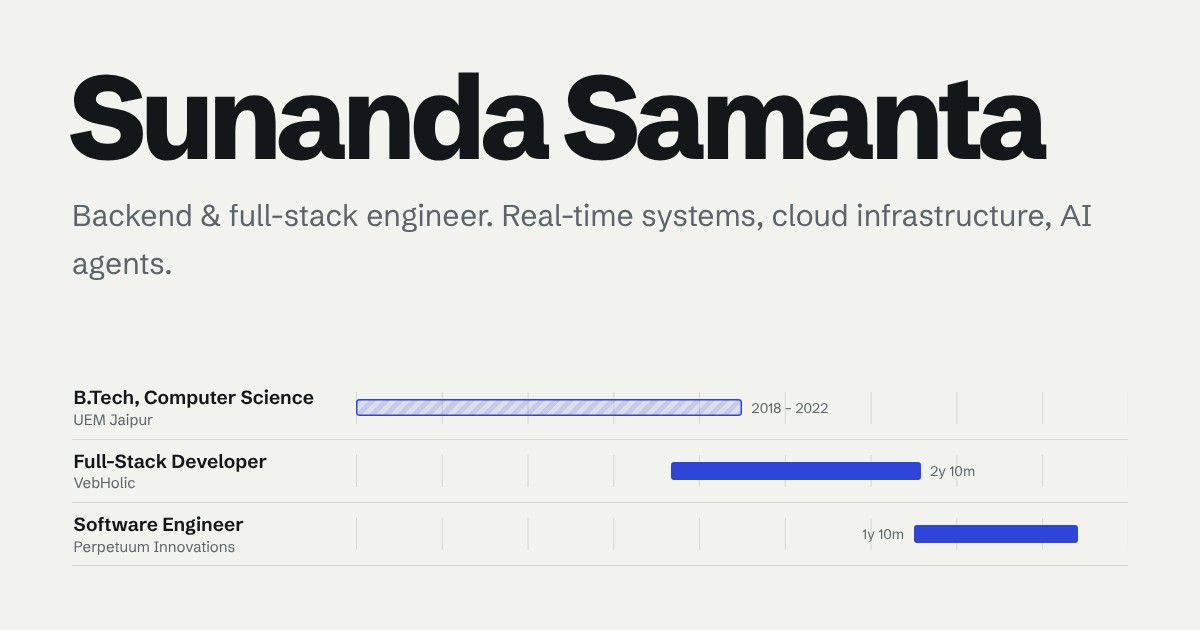
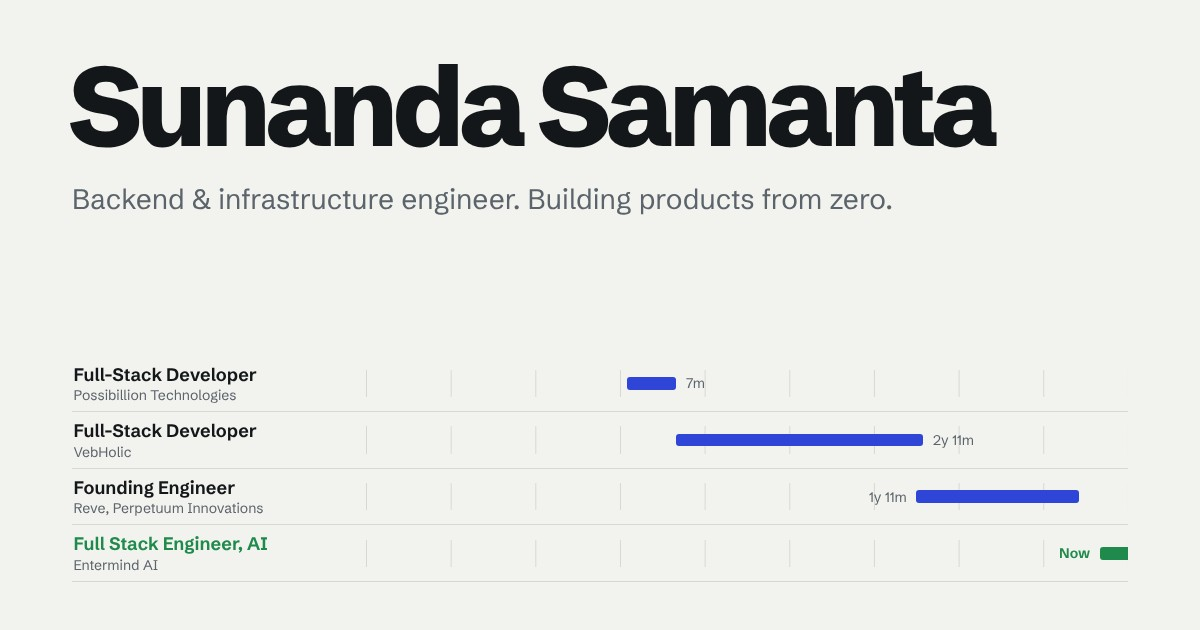
Update portfolio content from LinkedIn profile
- Add Entermind AI (current role) and Possibillion Technologies (2021)
- Reve: founding engineer, microservices, Cloud Run migration, analytics pipeline
- Sub-50ms figure correctly attributed to load testing
- VebHolic: 800+ enterprises, RAG at ~95% response accuracy
- Location Bengaluru; add AWS Certified Solutions Architect - Associate
- Replace job-seeking framing with current-role status
- Regenerate Open Graph image

diff --git a/index.html b/index.html
@@ -4,9 +4,9 @@
 <head>
     <meta charset="UTF-8">
     <meta name="viewport" content="width=device-width, initial-scale=1.0">
-    <title>Sunanda Samanta, Backend &amp; Full-Stack Engineer</title>
+    <title>Sunanda Samanta, Backend &amp; Infrastructure Engineer</title>
     <meta name="description"
-        content="Sunanda Samanta is a backend and full-stack engineer with four years of production experience: real-time messaging at sub-50ms, Kubernetes infrastructure, production AI agents, and DevUtils (5,000+ monthly users).">
+        content="Sunanda Samanta is a backend and infrastructure engineer who builds products from zero: founding engineer at Reve, now building enterprise AI at Entermind AI, and creator of DevUtils (5,000+ monthly users). AWS Certified Solutions Architect.">
     <meta name="author" content="Sunanda Samanta">
     <meta name="robots" content="index, follow">
     <meta name="color-scheme" content="light dark">
@@ -20,21 +20,21 @@
     <!-- Open Graph -->
     <meta property="og:type" content="website">
     <meta property="og:url" content="https://sunanda35.github.io/">
-    <meta property="og:title" content="Sunanda Samanta, Backend & Full-Stack Engineer">
+    <meta property="og:title" content="Sunanda Samanta, Backend & Infrastructure Engineer">
     <meta property="og:description"
-        content="Four years building production systems end-to-end: real-time messaging, Kubernetes infrastructure, AI agents, and DevUtils (5,000+ monthly users).">
+        content="Backend and infrastructure engineer building products from zero. Founding engineer at Reve, now at Entermind AI. Creator of DevUtils (5,000+ monthly users).">
     <meta property="og:image" content="https://sunanda35.github.io/assets/images/og-image.jpg">
     <meta property="og:image:type" content="image/jpeg">
     <meta property="og:image:width" content="1200">
     <meta property="og:image:height" content="630">
-    <meta property="og:image:alt" content="Sunanda Samanta, Backend and Full-Stack Engineer. Career shown as a trace timeline.">
+    <meta property="og:image:alt" content="Sunanda Samanta, Backend and Infrastructure Engineer. Career shown as a trace timeline.">
     <meta property="og:site_name" content="Sunanda Samanta">
     <meta property="og:locale" content="en_US">
 
     <meta name="twitter:card" content="summary_large_image">
-    <meta name="twitter:title" content="Sunanda Samanta, Backend & Full-Stack Engineer">
+    <meta name="twitter:title" content="Sunanda Samanta, Backend & Infrastructure Engineer">
     <meta name="twitter:description"
-        content="Four years building production systems end-to-end. Creator of DevUtils (5,000+ monthly users).">
+        content="Backend and infrastructure engineer building products from zero. Creator of DevUtils (5,000+ monthly users).">
     <meta name="twitter:image" content="https://sunanda35.github.io/assets/images/og-image.jpg">
     <meta name="twitter:creator" content="@0xSunanda">
 
@@ -49,12 +49,14 @@
       "@context": "https://schema.org",
       "@type": "Person",
       "name": "Sunanda Samanta",
-      "jobTitle": "Software Engineer",
+      "jobTitle": "Full Stack Engineer, AI Solutions",
+      "worksFor": { "@type": "Organization", "name": "Entermind AI" },
       "url": "https://sunanda35.github.io/",
       "email": "mailto:sunandasamanta38@gmail.com",
-      "address": { "@type": "PostalAddress", "addressLocality": "Gurugram", "addressCountry": "India" },
+      "address": { "@type": "PostalAddress", "addressLocality": "Bengaluru", "addressCountry": "India" },
       "alumniOf": "University of Engineering & Management, Jaipur",
-      "knowsAbout": ["Backend engineering", "Node.js", "TypeScript", "Go", "Kubernetes", "Real-time systems", "RAG", "AI agents"],
+      "hasCredential": { "@type": "EducationalOccupationalCredential", "name": "AWS Certified Solutions Architect – Associate" },
+      "knowsAbout": ["Backend engineering", "Distributed systems", "Cloud infrastructure", "AWS", "GCP", "Node.js", "TypeScript", "Go", "Real-time systems", "RAG", "Developer tools"],
       "sameAs": ["https://github.com/sunanda35", "https://www.linkedin.com/in/sunanda35/", "https://x.com/0xSunanda"]
     }
     </script>
@@ -87,18 +89,18 @@
 
             <div class="hero-grid">
                 <p class="lead">
-                    Backend and full-stack engineer. For four years I've built the systems products run on:
-                    real-time messaging, cloud infrastructure, and AI agents, owned from the first commit
-                    through production and on-call.
+                    Backend and infrastructure engineer who builds products from zero. Most of my career has
+                    been inside early-stage startups: as founding engineer at Reve I took the backend from an
+                    empty repo to production. Now I build AI solutions for enterprises.
                 </p>
                 <div class="hero-side">
-                    <p class="status"><span class="pulse" aria-hidden="true"></span>Open to backend, full-stack and AI
-                        engineering roles</p>
-                    <p class="where">Gurugram, India. Remote or relocation.</p>
+                    <p class="status"><span class="pulse" aria-hidden="true"></span>Full Stack Engineer, AI Solutions
+                        at Entermind AI</p>
+                    <p class="where">Bengaluru, India. AWS Certified Solutions Architect.</p>
                     <div class="cta">
                         <a class="btn primary" href="mailto:sunandasamanta38@gmail.com">Email me</a>
-                        <a class="btn track-outbound" href="/assets/sunanda-resume.pdf" target="_blank"
-                            rel="noopener">View résumé</a>
+                        <a class="btn track-outbound" href="https://www.linkedin.com/in/sunanda35/" target="_blank"
+                            rel="noopener">LinkedIn</a>
                     </div>
                 </div>
             </div>
@@ -107,7 +109,7 @@
             <figure class="trace" aria-labelledby="trace-cap">
                 <figcaption id="trace-cap" class="trace-head">
                     <span class="trace-title">Career, as a trace</span>
-                    <span class="trace-meta"><span class="tnum">4</span> spans, <span class="tnum">2018</span> to today</span>
+                    <span class="trace-meta"><span class="tnum">5</span> spans, <span class="tnum">2018</span> to today</span>
                 </figcaption>
 
                 <div class="axis" aria-hidden="true">
@@ -122,26 +124,32 @@
                 <ul class="spans">
                     <li class="span school" style="--s:0;--e:54;--i:0">
                         <a href="#education" class="span-row">
-                            <span class="span-name"><b>B.Tech, Computer Science</b><small>UEM Jaipur, CGPA 8.9</small></span>
+                            <span class="span-name"><b>B.Tech, Computer Science</b><small>UEM Jaipur</small></span>
                             <span class="track"><span class="bar"></span><span class="dur tnum">2018 – 2022</span></span>
                         </a>
                     </li>
-                    <li class="span" style="--s:44;--e:79;--i:1">
+                    <li class="span" style="--s:37;--e:44;--i:1">
+                        <a href="#possibillion" class="span-row">
+                            <span class="span-name"><b>Full-Stack Developer</b><small>Possibillion Technologies</small></span>
+                            <span class="track"><span class="bar"></span><span class="dur tnum">7m</span></span>
+                        </a>
+                    </li>
+                    <li class="span" style="--s:44;--e:79;--i:2">
                         <a href="#vebholic" class="span-row">
-                            <span class="span-name"><b>Full-Stack Developer</b><small>VebHolic, remote</small></span>
-                            <span class="track"><span class="bar"></span><span class="dur tnum">2y 10m</span></span>
+                            <span class="span-name"><b>Full-Stack Developer</b><small>VebHolic</small></span>
+                            <span class="track"><span class="bar"></span><span class="dur tnum">2y 11m</span></span>
                         </a>
                     </li>
-                    <li class="span lab-left" style="--s:78;--e:101;--i:2">
-                        <a href="#perpetuum" class="span-row">
-                            <span class="span-name"><b>Software Engineer</b><small>Perpetuum Innovations</small></span>
-                            <span class="track"><span class="bar"></span><span class="dur tnum">1y 10m</span></span>
+                    <li class="span lab-left" style="--s:78;--e:101;--i:3">
+                        <a href="#reve" class="span-row">
+                            <span class="span-name"><b>Founding Engineer</b><small>Reve, Perpetuum Innovations</small></span>
+                            <span class="track"><span class="bar"></span><span class="dur tnum">1y 11m</span></span>
                         </a>
                     </li>
-                    <li class="span next" style="--s:102;--e:108;--i:3">
-                        <a href="#contact" class="span-row">
-                            <span class="span-name"><b>Next role</b><small>Open now</small></span>
-                            <span class="track"><span class="bar"></span><span class="dur">Let's talk</span></span>
+                    <li class="span now" style="--s:104;--e:108;--i:4">
+                        <a href="#entermind" class="span-row">
+                            <span class="span-name"><b>Full Stack Engineer, AI</b><small>Entermind AI</small></span>
+                            <span class="track"><span class="bar"></span><span class="dur">Now</span></span>
                         </a>
                     </li>
                 </ul>
@@ -152,28 +160,41 @@
         <section class="block shell" id="work" aria-labelledby="work-h">
             <h2 id="work-h" class="block-h">Experience</h2>
 
-            <article class="role" id="perpetuum">
+            <article class="role" id="entermind">
+                <div class="role-meta">
+                    <p class="tnum">Sep 2026 – now</p>
+                    <p>Current role</p>
+                </div>
+                <div class="role-body">
+                    <h3>Full Stack Engineer, AI Solutions <span>Entermind AI</span></h3>
+                    <p class="role-lead">Building AI-driven solutions for enterprises.</p>
+                </div>
+            </article>
+
+            <article class="role" id="reve">
                 <div class="role-meta">
                     <p class="tnum">Jul 2024 – May 2026</p>
                     <p>Gurugram</p>
                 </div>
                 <div class="role-body">
-                    <h3>Software Engineer <span>Perpetuum Innovations</span></h3>
+                    <h3>Founding Engineer <span>Reve, by Perpetuum Innovations</span></h3>
                     <p class="role-lead">
-                        Built the backend platform from an empty repository, made the early architecture calls,
-                        and owned it end-to-end: the cross-platform apps shipped on it, and I ran it in production.
+                        Joined as founding engineer and took the backend from an empty repo to production. Owned the
+                        microservices architecture and the tech-stack decisions the cross-platform mobile apps
+                        shipped on, along with the infrastructure underneath.
                     </p>
                     <ul class="wins">
-                        <li><strong class="tnum">Sub-50ms</strong> real-time messaging on Pub/Sub, holding 1,000+
-                            concurrent sessions in production.</li>
+                        <li><strong class="tnum">Sub-50ms</strong> real-time messaging on Pub/Sub with a serverless
+                            backend, sustaining 1,000+ concurrent sessions in load testing.</li>
                         <li><strong class="tnum">~40% faster</strong> average API response time after redesigning
-                            schemas and indexes and reworking the slowest queries.</li>
-                        <li>Ran services on Kubernetes with Helm and Terraform, containerised with Docker, with
-                            releases automated through GitHub Actions.</li>
-                        <li>Built async and data-sync pipelines with retries, failure handling and replay, plus the
-                            monitoring and alerting that made production visible.</li>
+                            database schemas and rewriting the slowest queries.</li>
+                        <li>Built a real-time analytics pipeline with monitoring, for usage insights and early
+                            regression detection.</li>
+                        <li>Built automated background-processing pipelines for async workloads, improving
+                            reliability and cutting manual ops.</li>
+                        <li>Migrated background workers from VM-based deployment to Cloud Run serverless jobs.</li>
                     </ul>
-                    <p class="used">TypeScript, Node.js, Pub/Sub, Kubernetes, Helm, Terraform, Docker, GitHub Actions, GCP</p>
+                    <p class="used">TypeScript, Node.js, microservices, Pub/Sub, Cloud Run, GCP, Docker, Terraform, GitHub Actions</p>
                 </div>
             </article>
 
@@ -185,19 +206,28 @@
                 <div class="role-body">
                     <h3>Full-Stack Developer <span>VebHolic</span></h3>
                     <p class="role-lead">
-                        Shipped features end-to-end for a SaaS product with around 10,000 users: React front ends,
-                        Express and Node.js APIs, authentication, integrations and monitoring.
+                        Shipped full-stack features for a SaaS platform serving 800+ enterprises, improving system
+                        performance and reliability.
                     </p>
                     <ul class="wins">
-                        <li><strong class="tnum">~60% fewer</strong> routine manual lookups after shipping a
-                            production AI agent: an LLM with retrieval over vector search, on a self-deployed Llama
-                            model, that let users query internal data in plain language.</li>
-                        <li><strong class="tnum">~25% faster</strong> page loads through caching and a move to a
-                            micro-frontend architecture.</li>
-                        <li>Wrote Python and Node.js for production APIs and data integration, and reworked batch
-                            and background processing for heavier workloads.</li>
+                        <li><strong class="tnum">~95% accuracy</strong> from an LLM-powered RAG pipeline with
+                            vector retrieval, letting users query internal data in plain language.</li>
+                        <li><strong class="tnum">~25% faster</strong> page loads, alongside reworked batch and
+                            background data processing built for heavier workloads.</li>
                     </ul>
-                    <p class="used">React, Node.js, Express, MongoDB, PostgreSQL, Python, Llama, vector search</p>
+                    <p class="used">React, Node.js, Express, MongoDB, PostgreSQL, Python, LLMs, vector search</p>
+                </div>
+            </article>
+
+            <article class="role" id="possibillion">
+                <div class="role-meta">
+                    <p class="tnum">Feb 2021 – Aug 2021</p>
+                    <p>Hyderabad</p>
+                </div>
+                <div class="role-body">
+                    <h3>Full-Stack Developer <span>Possibillion Technologies</span></h3>
+                    <p class="role-lead">First engineering role: built and shipped features across the front end,
+                        REST APIs and the data layer.</p>
                 </div>
             </article>
         </section>
@@ -211,16 +241,16 @@
                     <h3><a href="https://devutils.lol/" target="_blank" rel="noopener" class="track-outbound">DevUtils</a></h3>
                     <p class="feature-sub">Privacy-first developer tools. Built and grown solo.</p>
                     <p>
-                        Developer tools that process multi-gigabyte files entirely in the browser. Service Worker
-                        chunking and streaming do the heavy lifting, and there is no backend at all, so nothing you
-                        load ever leaves your machine.
+                        A collection of developer tools used by 5,000+ people every month. Some of them process
+                        multi-gigabyte files entirely inside the browser, using Service Worker chunking and
+                        streaming, so nothing is ever uploaded to a server.
                     </p>
                     <a class="link track-outbound" href="https://devutils.lol/" target="_blank" rel="noopener">Open devutils.lol</a>
                 </div>
                 <dl class="feature-facts">
                     <div><dt>Monthly users</dt><dd class="tnum">5,000+</dd></div>
                     <div><dt>Files handled</dt><dd>Multi-GB</dd></div>
-                    <div><dt>Backend servers</dt><dd class="tnum">0</dd></div>
+                    <div><dt>Uploads to a server</dt><dd class="tnum">0</dd></div>
                 </dl>
             </article>
 
@@ -250,20 +280,21 @@
         <section class="block shell" id="skills" aria-labelledby="skills-h">
             <h2 id="skills-h" class="block-h">Skills</h2>
             <dl class="skills">
+                <div><dt>Certified</dt><dd class="strong">AWS Certified Solutions Architect – Associate</dd></div>
                 <div><dt>Languages</dt><dd>TypeScript, JavaScript, Go, Python, Rust, SQL</dd></div>
                 <div><dt>Backend</dt><dd>Node.js, Express, REST, WebSockets, microservices, serverless, Kafka, Pub/Sub, Redis</dd></div>
+                <div><dt>Cloud</dt><dd>AWS (Lambda, IAM), GCP (Cloud Run, Pub/Sub), Docker, Kubernetes, Helm, Terraform, GitHub Actions, cloud security</dd></div>
                 <div><dt>Data</dt><dd>PostgreSQL, MongoDB, Redis, Firestore, ArangoDB; schema design, indexing, query tuning</dd></div>
-                <div><dt>Infrastructure</dt><dd>AWS, GCP, Docker, Kubernetes, Helm, Terraform, GitHub Actions</dd></div>
-                <div><dt>AI</dt><dd>Production agents, LLM integration, RAG and vector retrieval, self-hosted model deployment</dd></div>
+                <div><dt>AI</dt><dd>LLM integration, RAG and vector retrieval, AI workflow automation</dd></div>
                 <div><dt>Frontend</dt><dd>React, Next.js, Tailwind, Angular, Flutter</dd></div>
-                <div><dt>Testing</dt><dd>Jest, Playwright</dd></div>
             </dl>
         </section>
 
         <!-- ============ CONTACT ============ -->
         <section class="contact shell" id="contact" aria-labelledby="contact-h">
-            <h2 id="contact-h" class="contact-h">Hiring for a backend or<br class="hide-sm"> platform engineer?</h2>
-            <p class="contact-sub">Email is the fastest way to reach me. Based in Gurugram, open to remote and relocation.</p>
+            <h2 id="contact-h" class="contact-h">Building something<br class="hide-sm"> from zero?</h2>
+            <p class="contact-sub">I like talking about backend systems, infrastructure, AI products and early-stage
+                engineering. Email is the fastest way to reach me.</p>
             <div class="mailrow">
                 <a class="mail" href="mailto:sunandasamanta38@gmail.com">sunandasamanta38@gmail.com</a>
                 <button class="copy" type="button" data-copy="sunandasamanta38@gmail.com">Copy email</button>
@@ -280,7 +311,7 @@
     </main>
 
     <footer class="shell foot">
-        <span>© 2026 Sunanda Samanta</span>
+        <span>© 2026 Sunanda Samanta, Bengaluru</span>
         <span>Hand-written HTML and CSS. No framework, no trackers.</span>
     </footer>
 

diff --git a/css/modern.css b/css/modern.css
@@ -268,18 +268,17 @@ header.site.scrolled { border-bottom-color: var(--rule); }
     background: repeating-linear-gradient(-45deg, var(--span-soft) 0 5px, transparent 5px 10px), var(--span-soft);
     box-shadow: inset 0 0 0 1.5px var(--span);
 }
-/* the open-ended "next role" span */
-.span.next .bar {
-    background: transparent;
-    box-shadow: inset 0 0 0 1.5px var(--live);
-    background-image: linear-gradient(90deg, color-mix(in srgb, var(--live) 30%, transparent), transparent);
+/* the current role: live, open-ended */
+.span.now .bar {
+    background: var(--live);
     border-radius: 3px 0 0 3px;
+    background-image: linear-gradient(90deg, var(--live) 55%, color-mix(in srgb, var(--live) 25%, transparent));
 }
-.span.next .dur {
+.span.now .dur {
     left: auto; right: calc(100% - var(--s) / 108 * 100% + 0.6rem);
-    color: var(--live); font-weight: 600;
+    color: var(--live); font-weight: 650;
 }
-.span.next b { color: var(--live); }
+.span.now b { color: var(--live); }
 .span.lab-left .dur { left: auto; right: calc(100% - var(--s) / 108 * 100% + 0.6rem); }
 
 @keyframes grow { from { transform: scaleX(0); } to { transform: scaleX(1); } }
@@ -380,6 +379,7 @@ header.site.scrolled { border-bottom-color: var(--rule); }
 .skills div:last-child { border-bottom: 0; }
 .skills dt { font-weight: 650; }
 .skills dd { color: var(--slate); }
+.skills dd.strong { color: var(--ink); font-weight: 600; }
 
 /* contact */
 .contact {
@@ -460,9 +460,9 @@ header.site.scrolled { border-bottom-color: var(--rule); }
 
 /* long duration labels would overflow the right edge on narrow tracks */
 @media (max-width: 520px) {
-    .span:not(.next) .dur, .span.lab-left .dur { left: auto; right: 0; top: -0.2rem; transform: translateY(-100%); }
-    .span:not(.next) .track { margin-top: 1rem; }
-    .span.next .dur { right: auto; left: 0; }
+    .span:not(.now) .dur, .span.lab-left .dur { left: auto; right: 0; top: -0.2rem; transform: translateY(-100%); }
+    .span:not(.now) .track { margin-top: 1rem; }
+    .span.now .dur { right: auto; left: 0; }
     .span-name { padding-right: 0; }
 }
 
